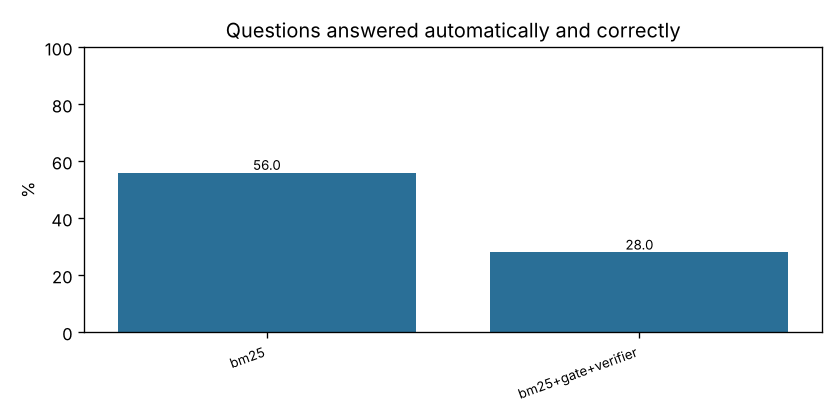
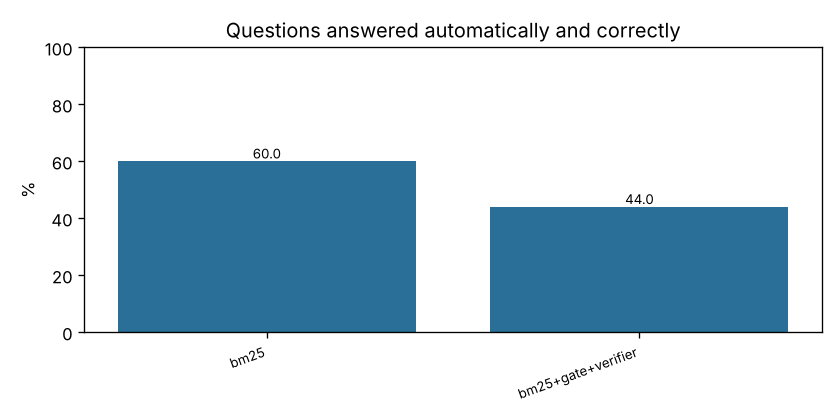
Extractive generator: join run-in headings to their sentence; ignore question filler words
Claude-Session: https://claude.ai/code/session_019u9b1pND1Kezy9oyWy8AQf

Changed region(s): [[0.5571, 0.4643, 0.9595, 0.619], [0.1238, 0.3405, 0.4952, 0.4333]]

diff --git a/pereport/engine.py b/pereport/engine.py
@@ -59,6 +59,47 @@ class Generator(Protocol):
         ...
 
 
+_LABEL_BLOCKERS = {
+    "is",
+    "are",
+    "was",
+    "were",
+    "has",
+    "have",
+    "had",
+    "will",
+    "may",
+    "the",
+    "a",
+    "an",
+}
+
+
+def merge_run_in_labels(sentences: list[str]) -> list[str]:
+    """Join a run-in heading ("Directors' remuneration.") with the sentence it introduces.
+
+    A fragment counts as a label when it is at most five words, has no digit and contains no
+    verb-like or article word, so it cannot stand as an answer by itself.
+    """
+    out: list[str] = []
+    i = 0
+    while i < len(sentences):
+        words = sentences[i].rstrip(".:").split()
+        is_label = (
+            0 < len(words) <= 5
+            and not any(c.isdigit() for c in sentences[i])
+            and not {w.lower() for w in words} & _LABEL_BLOCKERS
+            and i + 1 < len(sentences)
+        )
+        if is_label:
+            out.append(f"{sentences[i].rstrip('.:')}. {sentences[i + 1]}")
+            i += 2
+        else:
+            out.append(sentences[i])
+            i += 1
+    return out
+
+
 class ExtractiveGenerator:
     def __init__(self, max_sentences: int = 2) -> None:
         self.max_sentences = max_sentences
@@ -70,7 +111,11 @@ class ExtractiveGenerator:
         need = min(2, len(q))
         scored: list[tuple[int, int, int, str, Chunk]] = []
         for rank, chunk in enumerate(chunks):
-            lines = chunk.text.split("\n") if chunk.kind == "table" else split_sentences(chunk.text)
+            lines = (
+                chunk.text.split("\n")
+                if chunk.kind == "table"
+                else merge_run_in_labels(split_sentences(chunk.text))
+            )
             header = lines[0] if chunk.kind == "table" and not _HAS_DIGIT.search(lines[0]) else ""
             for pos, line in enumerate(lines):
                 if header and pos == 0:

diff --git a/tests/test_engine.py b/tests/test_engine.py
@@ -126,3 +126,27 @@ def test_table_row_whose_label_is_named_by_the_question_beats_a_longer_sentence(
     ]
     out = ExtractiveGenerator().generate("How long is the lock-up period?", corpus)
     assert out.startswith("Term  Summary / Lock-up  One year from issue [fx, p.2]")
+
+
+def test_run_in_heading_is_joined_to_its_sentence() -> None:
+    from pereport.engine import merge_run_in_labels
+
+    assert merge_run_in_labels(
+        ["Directors' remuneration.", "USD 1,500 per annum each.", "Next one."]
+    ) == [
+        "Directors' remuneration. USD 1,500 per annum each.",
+        "Next one.",
+    ]
+    # a real short sentence (has "is") and a fragment with a digit are not labels
+    assert merge_run_in_labels(["The auditor is Beta.", "Other."]) == [
+        "The auditor is Beta.",
+        "Other.",
+    ]
+    assert merge_run_in_labels(["Fee 2%.", "Other."]) == ["Fee 2%.", "Other."]
+    corpus = [
+        _c(1, "Directors' remuneration. USD 1,500 per annum each; two directors waived fees.")
+    ]
+    out = ExtractiveGenerator().generate("What is the directors' remuneration?", corpus)
+    assert out.startswith(
+        "Directors' remuneration. USD 1,500 per annum each; two directors waived fees [fx, p.1]"
+    )

diff --git a/pereport/bm25.py b/pereport/bm25.py
@@ -28,7 +28,7 @@ STOPWORDS = frozenset({
     "a", "an", "the", "of", "and", "or", "to", "in", "on", "at", "by", "for", "with", "from",
     "as", "is", "are", "was", "were", "be", "been", "it", "its", "this", "that", "these", "those",
     "what", "which", "who", "whom", "how", "when", "where", "why", "do", "does", "did", "has",
-    "have", "had", "not", "no",
+    "have", "had", "not", "no", "many", "much", "often", "take",
 })  # fmt: skip
 
 

diff --git a/eval/sample/dev/report.md b/eval/sample/dev/report.md
@@ -6,14 +6,14 @@ Skipped configurations: embedding model BAAI/bge-small-en-v1.5 unavailable: Modu
 
 | Config | N | Accuracy | Auto-answered (headline) | Hallucination | 95% upper | Faithfulness | Cit. P | Cit. R | Refusal P | Refusal R |
 |---|---|---|---|---|---|---|---|---|---|---|
-| bm25 | 25 | 60.0% | 56.0% | 7/24 (29.2%) | 49.2% | 95.8% | 74.1% | 55.6% | 100.0% | 12.5% |
-| bm25+gate+verifier | 25 | 60.0% | 28.0% | 0/10 (0.0%) | 27.8% | 90.0% | 71.4% | 43.5% | 53.3% | 100.0% |
+| bm25 | 25 | 64.0% | 60.0% | 7/24 (29.2%) | 49.2% | 100.0% | 75.9% | 61.1% | 100.0% | 12.5% |
+| bm25+gate+verifier | 25 | 72.0% | 44.0% | 1/14 (7.1%) | 31.5% | 100.0% | 72.7% | 57.1% | 63.6% | 87.5% |
 
 ## Per-category: bm25
 
 | Category | N | Answered | Refused | Correct |
 |---|---|---|---|---|
-| answerable | 15 | 15 | 0 | 13 |
+| answerable | 15 | 15 | 0 | 14 |
 | partial | 2 | 2 | 0 | 1 |
 | unanswerable | 8 | 7 | 1 | 1 |
 
@@ -21,6 +21,6 @@ Skipped configurations: embedding model BAAI/bge-small-en-v1.5 unavailable: Modu
 
 | Category | N | Answered | Refused | Correct |
 |---|---|---|---|---|
-| answerable | 15 | 9 | 6 | 7 |
+| answerable | 15 | 12 | 3 | 11 |
 | partial | 2 | 1 | 1 | 0 |
-| unanswerable | 8 | 0 | 8 | 8 |
+| unanswerable | 8 | 1 | 7 | 7 |
